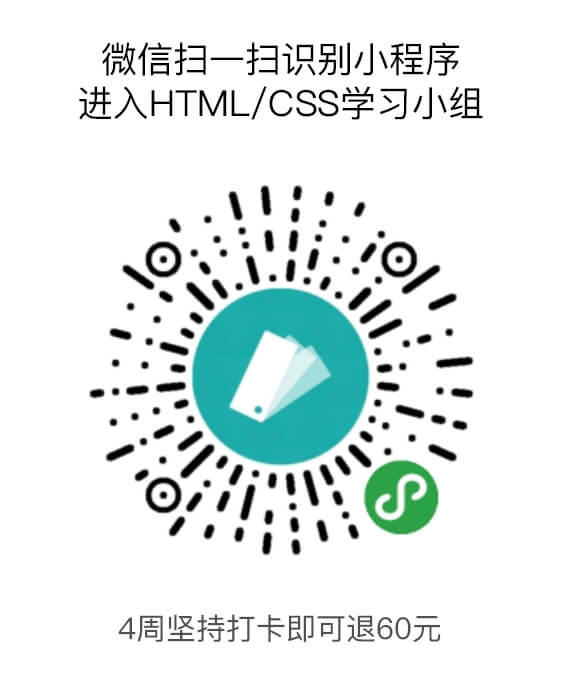
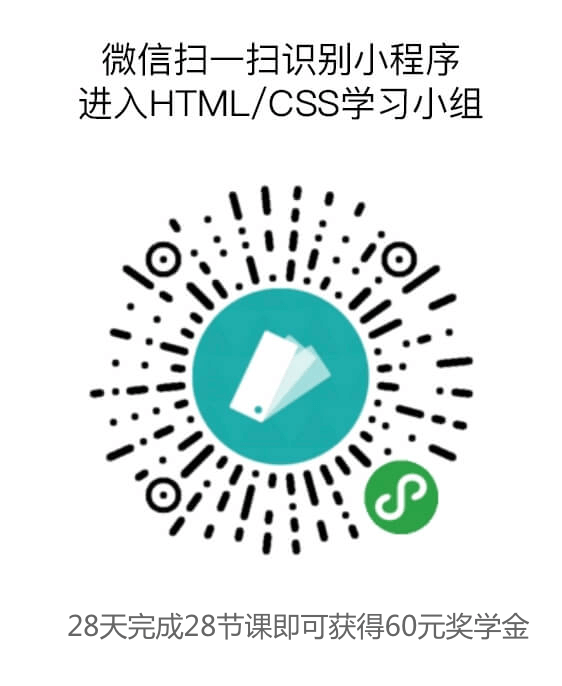
who will teach

Changed region(s): [[0.121, 0.8878, 0.9377, 0.949]]

diff --git a/index.html b/index.html
@@ -17,20 +17,16 @@
 	<div class="nav-bar-vertical">
 		<div class="nav-brand"></div>
 		<ul>
-			<li>学什么</li>
-			<li>第一周</li>
-			<li>第二周</li>
-			<li>第三周</li>
-			<li>第四周</li>
-			<li>第五周</li>
-			<li>第五周</li>
+			<a href="#"><li>学什么</li></a>
+			<a href="#how"><li>怎么学</li></a>
+			<a href="#who"><li>谁来教</li></a>
 		</ul>
 	</div> 
 	<div class="container-main" >
 		<div class="title"> 28天学会开发作品集网站 </div>
-			
-			<div class="section_link">
-				<p> 28天后可学会，包括但不限于我的 <a style="font-weight: bold;" href="http://baoling.top/portfolio/index.html" target="_blank"> 精简版自适应作品集网站 </a>上的所有功能。包含自适应设计、内容排版、hover动效等等。</p>
+			<!-- <div class="label-bg">学什么</div> -->
+			<div class="section_link" style="margin-top: 0px; margin-bottom: 12px;">
+				<p> 28天后可学会，包括但不限于我的 <a style="font-weight: bold;" href="http://baoling.top/portfolio/index.html" target="_blank"> 精简版自适应作品集网站 </a>上的所有功能。包含自适应设计、内容排版、动效等等。</p>
 			</div>
 
 			<video id="video0" controls style="width: 100%; height: 100%;" >
@@ -42,25 +38,25 @@
 			<div class="section_link"> 
 				<span>第一周  编程工具/网页文字排版/链接 </span>
 				<span>你将学会：如何设置开发字色、字体、粗细、划线、行距、字距、对齐、缩进、链接、按钮、hover效果等。</span>
-				<a href="Week1_txt/week1.html" target="_blank"> 效果示例 </a>
+				<a class="cases-page" href="Week1_txt/week1.html" target="_blank"> 效果示例 </a>
 			</div>
 
 			<div class="section_link"> 
 				<span>第二周  图片/icon/音频/视频 </span>
 				<span>你将学会：图片尺寸、投影、裁切、矢量图、icon以及hover效果、音频、视频。</span>
-				<a href="Week2_image/week2.html" target="_blank"> 效果示例 </a>
+				<a class="cases-page" href="Week2_image/week2.html" target="_blank"> 效果示例 </a>
 			</div>
 
 			<div class="section_link"> 
 				<span>第三周  响应式布局 </span>
 				<span>你将学会：如何布局网页各个模块，并且根据浏览器尺寸自动调整布局。包含bootstrap教程。</span>
-				<a href="Week3_layout/week3.html" target="_blank"> 效果示例 </a>
+				<a class="cases-page" href="Week3_layout/week3.html" target="_blank"> 效果示例 </a>
 			</div>
 
 			<div class="section_link"> 
 				<span>第四周  交互/动画/github生成个人网站 </span>
 				<span>你将学会：hover效果、fade in、fade out、移动、字体缩放、改变颜色，以及如何生成自己的网站。包含部分JQuery知识。</span>
-				<a href="Week4_animate/week4.html" target="_blank"> 效果示例 </a>
+				<a class="cases-page" href="Week4_animate/week4.html" target="_blank"> 效果示例 </a>
 			</div>
 
 			<div class="section_link"> 
@@ -69,33 +65,48 @@
 				<!-- <a href="Week1_txt/index.html" target="_blank"> 效果示例 </a> -->
 			</div>
 
-			<div style="font-size: 16px; font-weight: bold; padding-bottom: 8px;"> 每天的打卡视频示例 </div>
-			<span class="cases">示例1. 网页基本布局</span>
-			<video controls style="width: 100%; height: 100%;" >
-				<source src="video/layout.mp4" type="video/mp4">
-				Your browser does not support the video tag.
-			</video><br/><br/>
-			<span class="cases">示例2. 滚动显示隐藏</span>
-			<video controls style="width: 100%; height: 100%;" >
-				<source src="video/scroll.mp4" type="video/mp4">
-				Your browser does not support the video tag.
-			</video>
-		
 			<div class="footer">
-				<div class="section_link" style="font-size: 14px; color: #555;">
-					想完成课程的同学可以加我微信，注明“学习HTML/CSS”。<br/>
-					或直接扫小程序二维码进群学习。每天提供5min左右的视频教程，学员在小程序中上传每日学习成果截图即可。<br/><br/>
-					授课时间：2018年10月13日往后，任何日期都可以开始学习，每个人有自己的学习进度，坚持28天即可。<br/>
-					打卡方式：每天提供5min左右的教学视频，学习完后需自己写代码，完成当天的知识点。其中，只要完成当天众多知识点中的一点并截图打卡，即算打卡成功。<br/><br/>
+				<div class="section_link" style=" color: #555;">
+					<div id="how" style="font-size: 18px; font-weight: bold; padding-bottom: 8px; color: #111;"> 怎么学 </div>
+					<span style="padding-bottom: 12px;">
+						每天提供5min左右的教学视频，学习完后需自己写代码，完成当天的知识点。其中，只要完成当天众多知识点中的一点并截图打卡，即算打卡成功。
+					</span>
+					授课时间：任何日期都可以开始学习，每个人有自己的学习进度，坚持打卡28节课即可。<br/><br/>
+					<div style="font-weight: bold; font-size: 16px; padding-bottom: 4px;"> 每天的打卡视频示例 </div>
+					<span class="cases">示例1. 网页基本布局</span>	
+					<video controls style="width: 100%; height: 100%;" >
+						<source src="video/layout.mp4" type="video/mp4">
+						Your browser does not support the video tag.
+					</video><br/><br/>
+					<span class="cases">示例2. 滚动显示隐藏</span>
+					<video controls style="width: 100%; height: 100%;" >
+						<source src="video/scroll.mp4" type="video/mp4">
+						Your browser does not support the video tag.
+					</video>
+					<div style="font-weight: bold; font-size: 16px; padding: 24px 0 4px 0;"> 微信答疑 </div>
+					<div style="font-size: 16px; margin-bottom: 4px;">所有加入打卡的同学都会加入我的答疑群，在线解答同学们关于本课程的任何问题。以下是答疑历史记录。</div>
+
+					<img style="width: 100%;" src="imgs/wechat.png">
+					
+					</div>
+
+					<div id="who" style="font-size: 18px; font-weight: bold; padding: 24px 0 8px 0; color: #111; border-top: 1px solid #ddd;"> 谁来教 </div>
+					Baoling：目前是美团点评的交互设计师，前eBay全栈设计师。<br/><br/>
+
+				<!-- 	<div style="font-weight: bold; padding: 18px 0 4px 0; color:#555;"> 学费 </div> -->
+					<div style="font-size: 16px;">
 					学费：129元<br/>
 					奖学金：28次课程在28内天完成打卡即可获得60元奖学金。(每天可打卡多关，所以可按自己的时间安排来安排每天学习几节课。)
 					<br/><br/>
 					关于退课：打卡开始4天内退课可全部退款，5-8天内退课可退70元，8天及以上的退课，不退款，但只要坚持在28天内完成课程，即可获60元奖学金。<br/><br/>
-					<!-- Baoling：目前是美团点评的交互设计师，前eBay全栈设计师。 -->
+	
 					<div>
+						想完成课程的同学可以加我微信 a-baoling，注明“学习开发网站”。<br/>
+						或直接扫小程序二维码进群学习。<br/>
 						<img class="baoling_wechat" src="imgs/baoling.jpg">
 						<img class="baoling_wechat" src="imgs/QR.png">
 					</div>
+					
 				</div>
 			</div>
 	</div>

diff --git a/css/style.css b/css/style.css
@@ -17,7 +17,7 @@ a:hover,
 a:focus,
 a:active{
 	color: #5147B9;
-	/*text-decoration: none;*/
+	text-decoration: none;
 }
 /*.container-main{
 	margin: auto;
@@ -46,31 +46,44 @@ a:active{
 	list-style: none;
 	padding-left: 0px;
 }
-.nav-bar-vertical>ul>li{
+.nav-bar-vertical>ul>a>li{
 	padding: 6px 0px;
 	color: #666;
 	text-align: center;
+	box-sizing:border-box;
 	/*border-bottom: 1px solid #eee;*/
 	/*display: inline-block;*/
 }
-.nav-bar-vertical>ul>li:hover{
+.nav-bar-vertical>ul>a>li:hover{
 	background: #F5F4FF;
 	color: #5147B9;
-	/*font-weight: bold;*/
-	border-left: 3px solid #5147B9;
+	/*border-left: 3px solid #5147B9;*/
+	/*outline-left: 5px #FFF;
+	outline-offset: -5px;*/
+	box-shadow: 4px 0px 0px #5147B9 inset;
 }
-@media screen and (min-width: 601px) {
+@media screen and (min-width: 751px) {
 	.container-main{
 		width: calc(100% - 200px);
-		margin-left: 160px;
+		margin-left: 170px;
 		/*padding: 20px;*/
 	}
 }
-@media screen and (max-width: 600px) {
+@media screen and (max-width: 750px) {
 	.container-main{
 		width: 100%;
-
 	}
+	.nav-bar-vertical{
+		display: none;
+	}
+}
+.label-bg{
+	background: linear-gradient(90deg, #3A4190, #6C4FE9);
+	color: white;
+	/*border-radius: 16px 0 0 16px;*/
+	padding: 4px 20px;
+	display: inline-block;
+	margin-bottom: 8px;
 }
 img{
 	border:none;
@@ -78,22 +91,26 @@ img{
 .title{
 	font-size: 28px;
 	text-align: center;
-	padding: 26px 0 40px 0;
+	padding: 26px 0 26px 0;
 	line-height: 140%;
 }
 .section_link{
 	/*display: block;*/
 	font-size: 18px;
-	line-height: 160%;
-	margin: 0 0 24px 0;
+	line-height: 130%;
+	margin: 6px 0 38px 0;
+
 }
 .section_link span:nth-child(1){
 	display: block;
 	font-weight: bold;
+	padding-bottom: 6px;
 }
 .section_link span:nth-child(2){
 	display: block;
 	font-weight: light;
+	color: #555;
+	line-height: 130%;
 	/*color: #444;*/
 }
 .footer{
@@ -105,7 +122,31 @@ img{
 	margin-top: 12px;
 }
 .cases{
-	padding: 4px 0 8px 0;
+	padding: 0px 0 8px 0;
 	display: block;
 	color: #555;
+	font-size: 14px;
+}
+.cases-page{
+	background: #5147B9;
+	padding: 2px 12px;
+	border-radius: 24px;
+	color: white;
+	margin-top: 12px;
+	display: inline-block;
+	font-size: 14px;
+	transition: all .16s;
+	text-decoration: none;
+}
+.cases-page:hover,
+.cases-page:visited,
+.cases-page:active,
+.cases-page:focus
+{
+	text-decoration: none;
+	color: white;
+	background: #5F43E1;
+	box-shadow: 0 2px 8px rgba(81,71,185,0.45);
+	text-decoration: none;
+	transition: all .16s;
 }

diff --git a/Week2_image/week2.html b/Week2_image/week2.html
@@ -310,7 +310,7 @@
 			</div>
 
 			<video id="video0" controls style="width: 100%; height: 100%;" >
-				<source src="../video/00-intro.mp4" type="video/mp4">
+				<source src="../video/000-intro.mp4" type="video/mp4">
 				Your browser does not support the video tag.
 			</video>
 			<!-- <a href="javascript:playPause();"><div class="musicIcon" id="music_btn"></div></a> -->
